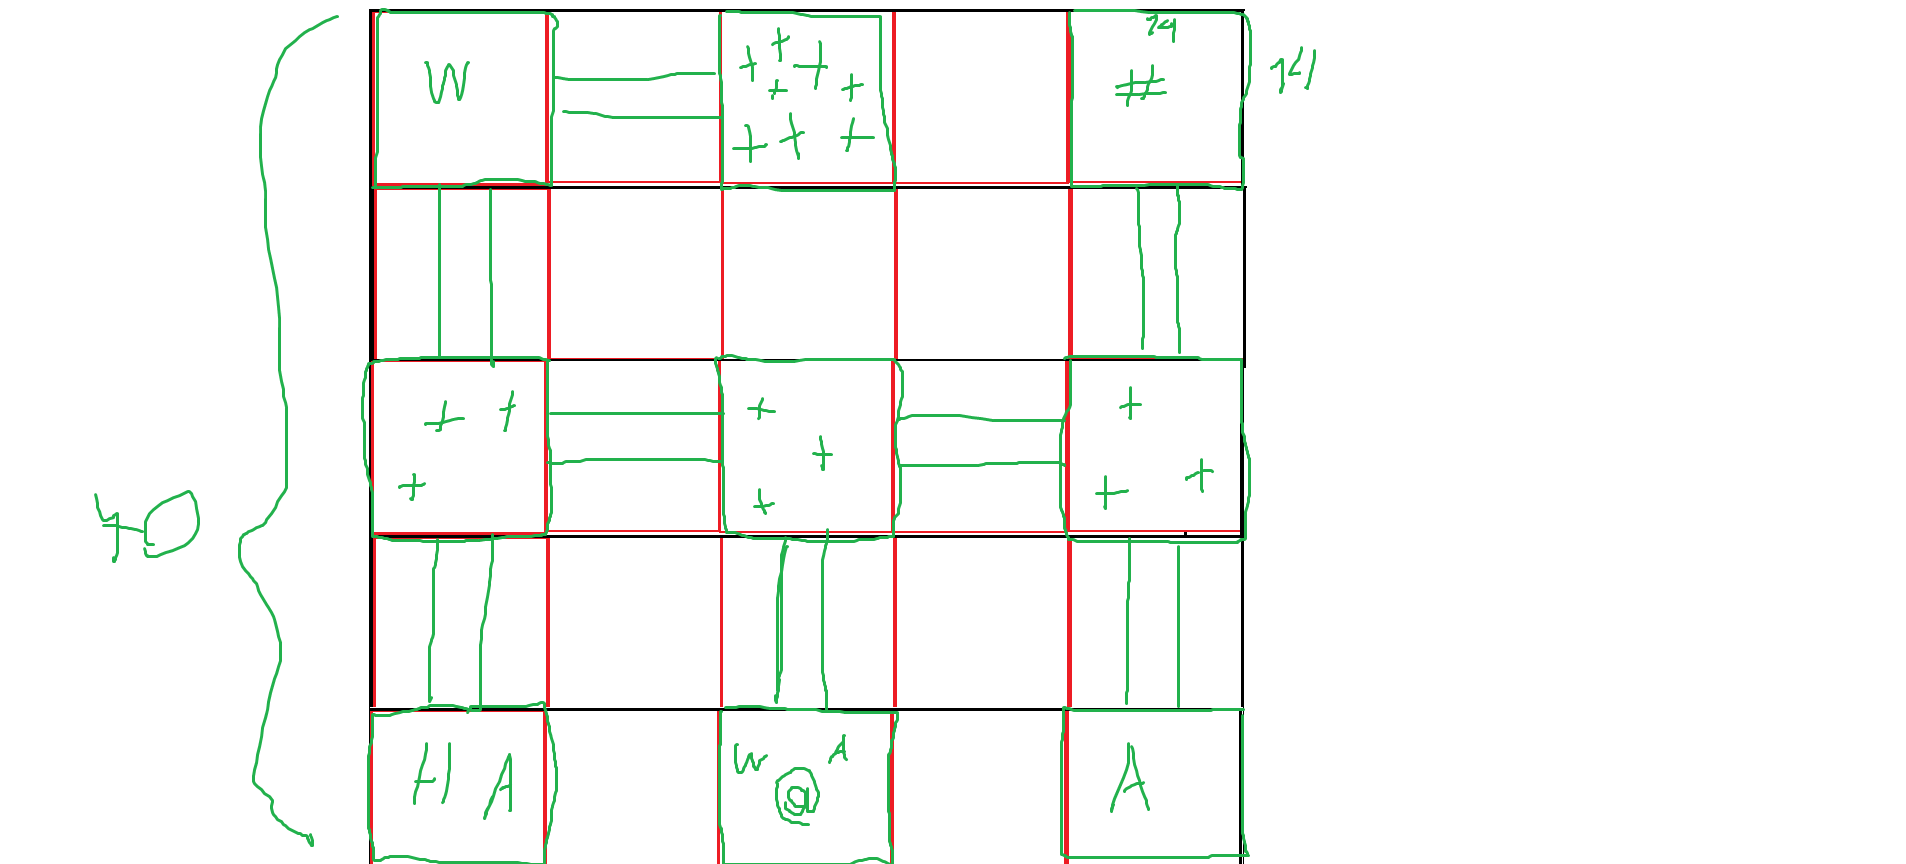
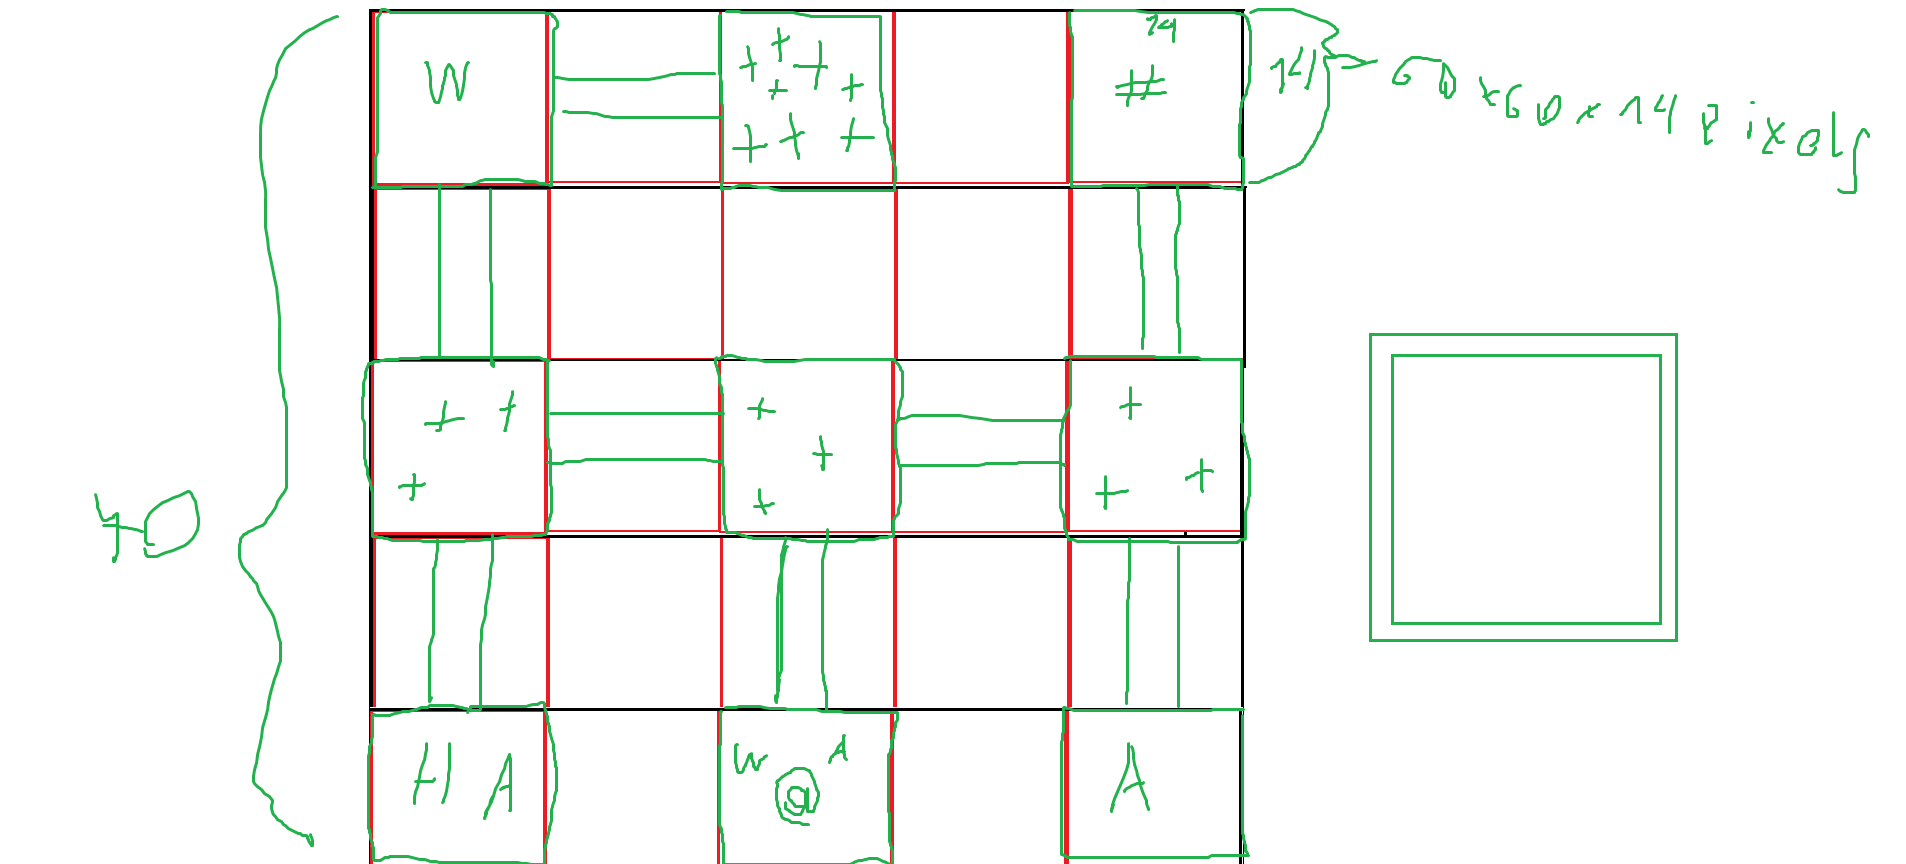
Ура, новая карта, апдейт 2.1

diff --git a/game.py b/game.py
@@ -58,8 +58,8 @@ class Player(pygame.sprite.Sprite):
 
 
 class TileImages:
-    wall = specfunctions.load_image("wall.jpg")
-    floor = specfunctions.load_image("floor.jpg")
+    wall = specfunctions.load_image("wall2d.png")
+    floor = specfunctions.load_image("floor.png")
 
 
 class Tile(pygame.sprite.Sprite):
